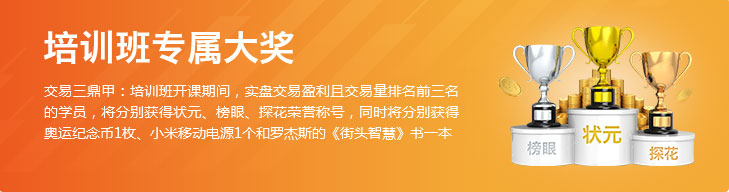
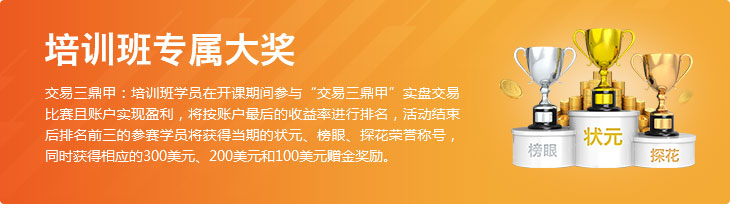
同步培训班详情页样式
git-svn-id: svn://172.30.3.30/pm/pm_chat/trunk@4934 53c53a5b-bfa6-924e-aae2-cbdbf9aa2596

diff --git a/template/pm/theme1/static/css/train.min.css b/template/pm/theme1/static/css/train.min.css
@@ -1,1 +1,1 @@
-.detail_ph .ph_cont .picbox i,.detail_ph .t_list li .arrow,.ligg_st .st i,.train_ad .actrulebtn i{background-image:url(../img/icons.png);background-repeat:no-repeat;background-position:0 0}.train_detail .scrollbox{height:460px}.train_detail .vol{font-size:14px;color:#464852;display:block;text-align:center;position:relative;top:-10px}.train_detail .teacherbox .te_top{border:1px solid #e6eff5;border-left:0;background:#f3f9fd;position:relative;border-radius:0 190px 190px 0;height:180px;box-sizing:border-box;margin-left:90px;padding-left:130px;padding-top:10px;text-align:left}.train_detail .te_top .info-l{width:38%}.train_detail .teacherbox .stateshow{padding-top:5px;width:61%;float:right;text-align:right;padding-right:1%}.train_detail .stateshow .item{width:26%;text-align:center}.train_detail .stateshow b em{font-size:.8em;font-style:normal}.train_detail .teacherbox .taglist{margin:0 0 10px}.train_detail .te_top .himg{width:180px;height:180px;border:1px solid #cfdfeb;box-sizing:border-box;left:-90px;background:#f3f9fd}.ph_tit span i,.te_top .memo span i{display:inline-block;width:3px;vertical-align:top}.train_detail .info1{border-bottom:1px solid #e6eff5;padding-bottom:15px;margin-right:50px}.detailtop{text-align:center}.detailtop .slogan{margin-top:10px;margin-bottom:20px}.detailcont{padding:0 57px;font-size:14px;color:#46484d;line-height:24px}.detailcont .dtit{font-size:15px;font-weight:700;padding-top:9pt}.detailcont p img{padding-top:5px;margin-right:8px}.teacherbox .info1 .info-l{padding-top:5px}.teacherbox .info1 .te_name{font-size:20px;line-height:40px}.te_top .memo{color:#5d5f66;font-size:14px;line-height:20px;padding:10px 10px 10px 0;overflow:hidden;text-overflow:ellipsis;white-space:nowrap}.te_top .memo span{color:#2e3033}.te_top .memo span i{background:#3b96d5;height:14px;margin-top:3px;margin-right:5px}.train_detail .teacherbox .taglist{margin-top:0}.detail_ph .ph_tit{border-top:1px solid #aec7de;margin-top:55px}.ph_tit span{display:inline-block;background:#fff;color:#3b96d5;font-size:1pc;line-height:24px;position:relative;top:-13px;padding-right:10px}.ph_tit span i{height:1pc;background:#3b96d5;margin-top:4px;margin-right:10px}.detail_ph .ph_cont{font-size:14px;line-height:1.5;color:#5d5f66}.detail_ph .ph_cont p{padding-left:10px}.detail_ph .ph_cont p b{color:#e55c62;font-size:1pc}.detail_ph .ph_cont p b.sz{font-size:18px}.ph_cont .imgdiv{padding:8px;border:1px solid #dce0e3;margin:5px 10px;border-radius:4px}.ph_cont .imgdiv img{width:100%;height:auto}.train_detail .applybtn{display:block;width:200px;height:40px;line-height:40px;font-size:18px;color:#fff;background:#3b96d5;font-weight:700;margin:30px auto 40px;text-align:center;border-radius:4px}.train_detail .applybtn:hover{background:#2587cb;text-decoration:none}.train_detail .train_ad{margin-bottom:20px;display:block;background:url(../img/train_ad.jpg) no-repeat;height:14pc}.train_detail .train_ad .actrulebtn{display:inline-block;margin:170px 0 0 380px;color:#ba2e36;font-size:1pc;line-height:1.5}.detail_tab td,.detail_tab th{border-bottom:1px solid #e1e5eb;font-size:14px;color:#5d5f66}.train_ad .actrulebtn i{display:inline-block;width:6px;height:9pt;background-position:-75pt -220px;margin:3px 5px 0 0}.detail_tab td{padding:15px 0}.detail_tab th{padding:15px 0 15px 10px;text-align:left;font-weight:400;vertical-align:top;line-height:30px}.detail_tab .topic{font-size:20px;color:#46484d;font-weight:700}.detail_tab .apply_info{float:right;display:inline-block;vertical-align:top;margin-top:-15px}.detail_tab .apply_info li{display:inline-block;vertical-align:top}.apply_info li b{font-size:18px;display:block;font-family:Arial,'Microsoft YaHei'}.apply_info li.m{color:#e55c62;border-left:1px solid #e1e5eb;border-right:1px solid #e1e5eb;padding:0 28px;margin:0 28px}.detail_ph .t_list li{position:relative;padding-left:28px;line-height:30px}.detail_ph .t_list.w2 li{width:35%;display:inline-block}.detail_ph .t_list li i{position:absolute;display:block;width:1pc;height:1pc;line-height:1pc;font-size:1pc;font-family:'Futura Bk BT',Arial;color:#8b8f99;text-align:center;font-style:normal;left:0;top:50%;margin-top:-9px;border:1px solid #babfcc;border-radius:3px}.detail_ph .t_list li .arrow{display:inline-block;background-position:-110px -220px;width:11px;height:9pt;margin:5px 0 0 20px}.popup_box .pop_tit.t2{font-size:30px}.popup_box .pop_tit.t2 span{width:12%}.train_detail .scrollbox.ligg{height:430px}.t_slogan{text-align:center;position:relative;margin-bottom:20px}.t_slogan span{display:inline-block;padding:0 30px;height:30px;line-height:30px;font-size:1pc;border-radius:30px;border:1px solid #e1e5eb}.t_slogan .arr i{display:block;position:absolute;width:0;height:0;left:50%;top:-11px;border-width:6px;border-color:transparent transparent #e1e5eb;border-style:solid;margin-left:-6px;z-index:2}.ligg_st .st,.ligg_st .st i{display:inline-block;vertical-align:top}.t_slogan .arr i.i2{top:-7px;border-width:4px;border-color:transparent transparent #fff;margin-left:-4px}.ligg_top{padding-top:30px}.ligg_top .rbox{float:right;width:65%}.ligg_top .lbox{float:left;width:32%;background:#f3f9fd;border:1px solid #e6eff5;border-radius:4px}.ligg_top .lbox .himg{border:1px solid #e6eff5;width:180px;height:180px;box-sizing:border-box;margin:30px auto 0;overflow:hidden;border-radius:50%}.ligg_top .bcont{padding:0 20px}.ligg_top .ligg_st{border-bottom:1px solid #e0e8ed;font-size:0;text-align:center;padding:20px 0 15px}.ligg_st .st{width:49.9%;font-size:9pt;color:#a1a9b2;line-height:24px}.ligg_st .st span{color:#e55c62}.ligg_st .st b{font-size:1pc;font-weight:400}.ligg_st .st i{width:23px;height:23px;margin-right:5px}.ligg_st .st i.st1{background-position:0 -190px}.ligg_st .st i.st2{background-position:-140px -75pt}.ligg_zy{font-size:14px;line-height:24px;color:#5d5f66;padding:15px 0}.ligg_zy span{color:#2e3033}.ligg_top .applybtn{width:100%;margin:0 auto 23px}.ligg_intro{font-size:14px;color:#7a7c80;padding-bottom:20px}.ligg_intro b{font-size:20px;color:#46484d;padding-right:20px}.ligg_top .detail_ph .ph_tit{margin-top:35px}.ligg_top .detail_ph .ph_cont p b{font-size:1em}.detail_ph .ph_cont .picbox{border:1px solid #dce0e3;padding:5px;border-radius:4px;margin-top:5px;margin-left:10px}.detail_ph .ph_cont .picbox a{display:block;position:relative}.detail_ph .ph_cont img{width:100%;height:auto}.detail_ph .ph_cont .picbox i{display:block;width:17px;height:17px;position:absolute;bottom:5px;right:5px;background-position:-60px -220px}.ligg .kcname{font-size:20px;color:#46484d;line-height:2}.ligg .kcbg{position:relative}.ligg .kcbgpic{width:286px;height:168px;background:url(../img/ligg_kcbg.jpg) no-repeat;position:absolute;right:-27px;top:20px;z-index:-1}.ligg .apply_info{border:1px solid #d7dde0;font-size:0;text-align:center;margin-top:15px}.ligg .apply_info .inbox{position:relative;display:inline-block;width:35%;vertical-align:top;font-size:14px;color:#5d5f66;line-height:1.6;height:10pc;background:#fff}.ligg .apply_info .inbox.in1{width:25.99%}.ligg .apply_info .inbox.in2{width:39%}.ligg .apply_info .inbox i.arr{position:absolute;width:43px;height:100%;padding:1px 0;background:url(../img/ligg_arr.png) center center no-repeat;top:-1px;right:0}.apply_info .inbox .cont{padding-left:30px;text-align:left;padding-top:15px}.apply_info .inbox p{padding-left:0}.apply_info .inbox p b{color:#5d5f66;display:block;font-size:18px;font-family:Arial}.apply_info .inbox p.red{padding-top:10px}.apply_info .inbox p.red,.apply_info .inbox p.red b{color:#e55c62}.apply_info .inbox p.p2{padding-top:7px}.popup_box.train_rule{margin-top:-300px;height:600px}.popup_box.train_rule .cont{padding:40px 40px 0}.train_rule .rulecont{margin-bottom:30px}.train_rule .scrollbox{height:5in}.train_rule h4{color:#333;font-size:1pc;margin:20px 0 10px}.train_rule li{color:#4c4c4c;font-size:14px;line-height:24px}.train_rule .eg{color:#447baf}.rulecont li b{color:#e55c62}.detail_ph .indent_cont{margin:0 10px}.medaltable{margin-bottom:20px}.medaltable th{font-weight:400;padding:10px 0 20px;color:#5d5f66;font-size:14px}.medaltable th span{display:block;height:14px;border:1px solid #e6e6e6;border-top:0;border-bottom:0}.medaltable td{border-left:1px solid #e6e6e6;border-top:1px solid #e6e6e6;padding:10px 0;text-align:center;vertical-align:middle;color:#333;font-size:14px}.medaltable tr:last-child td{border-bottom:1px solid #e6e6e6}.medaltable tr td:first-child{border-left:0}.medaltable .medal{display:inline-block;width:24px;height:44px;background:url(../img/medal.png) center 0 no-repeat;vertical-align:middle;margin-right:10px}.medaltable .medal.m2{background-position:center -50px}.medaltable .medal.m3{background-position:center -75pt}
+.detail_ph .ph_cont .picbox i,.detail_ph .t_list li .arrow,.ligg_st .st i,.train_ad .actrulebtn i{background-image:url(../img/icons.png);background-repeat:no-repeat;background-position:0 0}.train_detail .scrollbox{height:460px}.train_detail .vol{font-size:14px;color:#464852;display:block;text-align:center;position:relative;top:-10px}.train_detail .teacherbox .te_top{border:1px solid #e6eff5;border-left:0;background:#f3f9fd;position:relative;border-radius:0 190px 190px 0;height:180px;box-sizing:border-box;margin-left:90px;padding-left:130px;padding-top:10px;text-align:left}.train_detail .te_top .info-l{width:38%}.train_detail .teacherbox .stateshow{padding-top:5px;width:61%;float:right;text-align:right;padding-right:1%}.train_detail .stateshow .item{width:26%;text-align:center}.train_detail .stateshow b em{font-size:.8em;font-style:normal}.train_detail .teacherbox .taglist{margin:0 0 10px}.train_detail .te_top .himg{width:180px;height:180px;border:1px solid #cfdfeb;box-sizing:border-box;left:-90px;background:#f3f9fd}.ph_tit span i,.te_top .memo span i{display:inline-block;width:3px;vertical-align:top}.train_detail .info1{border-bottom:1px solid #e6eff5;padding-bottom:15px;margin-right:50px}.detailtop{text-align:center}.detailtop .slogan{margin-top:10px;margin-bottom:20px}.detailcont{padding:0 57px;font-size:14px;color:#46484d;line-height:24px}.detailcont .dtit{font-size:15px;font-weight:700;padding-top:9pt}.detailcont p img{padding-top:5px;margin-right:8px}.teacherbox .info1 .info-l{padding-top:5px}.teacherbox .info1 .te_name{font-size:20px;line-height:40px}.te_top .memo{color:#5d5f66;font-size:14px;line-height:20px;padding:10px 10px 10px 0;overflow:hidden;text-overflow:ellipsis;white-space:nowrap}.te_top .memo span{color:#2e3033}.te_top .memo span i{background:#3b96d5;height:14px;margin-top:3px;margin-right:5px}.train_detail .teacherbox .taglist{margin-top:0}.detail_ph .ph_tit{border-top:1px solid #aec7de;margin-top:55px}.ph_tit span{display:inline-block;background:#fff;color:#3b96d5;font-size:1pc;line-height:24px;position:relative;top:-13px;padding-right:10px}.ph_tit span i{height:1pc;background:#3b96d5;margin-top:4px;margin-right:10px}.detail_ph .ph_cont{font-size:14px;line-height:1.5;color:#5d5f66}.detail_ph .ph_cont p{padding-left:10px}.detail_ph .ph_cont p b{color:#e55c62;font-size:1pc}.detail_ph .ph_cont p b.sz{font-size:18px}.ph_cont .imgdiv{padding:8px;border:1px solid #dce0e3;margin:5px 10px;border-radius:4px}.ph_cont .imgdiv img{width:100%;height:auto}.train_detail .applybtn{display:block;width:200px;height:40px;line-height:40px;font-size:18px;color:#fff;background:#3b96d5;font-weight:700;margin:30px auto 40px;text-align:center;border-radius:4px}.train_detail .applybtn:hover{background:#2587cb;text-decoration:none}.train_detail .train_ad{margin-bottom:20px;display:block;background:url(../img/train_ad.jpg) center 0 no-repeat;height:204px}.train_detail .train_ad .actrulebtn{display:inline-block;margin:38px 0 0 330px;color:#ba2e36;font-size:1pc;line-height:1.5}.detail_tab td,.detail_tab th{border-bottom:1px solid #e1e5eb;font-size:14px;color:#5d5f66}.train_ad .actrulebtn i{display:inline-block;width:6px;height:9pt;background-position:-75pt -220px;margin:3px 5px 0 0}.detail_tab td{padding:15px 0}.detail_tab th{padding:15px 0 15px 10px;text-align:left;font-weight:400;vertical-align:top;line-height:30px}.detail_tab .topic{font-size:20px;color:#46484d;font-weight:700}.detail_tab .apply_info{float:right;display:inline-block;vertical-align:top;margin-top:-15px}.detail_tab .apply_info li{display:inline-block;vertical-align:top}.apply_info li b{font-size:18px;display:block;font-family:Arial,'Microsoft YaHei'}.apply_info li.m{color:#e55c62;border-left:1px solid #e1e5eb;border-right:1px solid #e1e5eb;padding:0 28px;margin:0 28px}.detail_ph .t_list li{position:relative;padding-left:28px;line-height:30px}.detail_ph .t_list.w2 li{width:35%;display:inline-block}.detail_ph .t_list li i{position:absolute;display:block;width:1pc;height:1pc;line-height:1pc;font-size:1pc;font-family:'Futura Bk BT',Arial;color:#8b8f99;text-align:center;font-style:normal;left:0;top:50%;margin-top:-9px;border:1px solid #babfcc;border-radius:3px}.detail_ph .t_list li .arrow{display:inline-block;background-position:-110px -220px;width:11px;height:9pt;margin:5px 0 0 20px}.popup_box .pop_tit.t2{font-size:30px}.popup_box .pop_tit.t2 span{width:12%}.train_detail .scrollbox.ligg{height:430px}.t_slogan{text-align:center;position:relative;margin-bottom:20px}.t_slogan span{display:inline-block;padding:0 30px;height:30px;line-height:30px;font-size:1pc;border-radius:30px;border:1px solid #e1e5eb}.t_slogan .arr i{display:block;position:absolute;width:0;height:0;left:50%;top:-11px;border-width:6px;border-color:transparent transparent #e1e5eb;border-style:solid;margin-left:-6px;z-index:2}.ligg_st .st,.ligg_st .st i{display:inline-block;vertical-align:top}.t_slogan .arr i.i2{top:-7px;border-width:4px;border-color:transparent transparent #fff;margin-left:-4px}.ligg_top{padding-top:30px}.ligg_top .rbox{float:right;width:65%}.ligg_top .lbox{float:left;width:32%;background:#f3f9fd;border:1px solid #e6eff5;border-radius:4px}.ligg_top .lbox .himg{border:1px solid #e6eff5;width:180px;height:180px;box-sizing:border-box;margin:30px auto 0;overflow:hidden;border-radius:50%}.ligg_top .bcont{padding:0 20px}.ligg_top .ligg_st{border-bottom:1px solid #e0e8ed;font-size:0;text-align:center;padding:20px 0 15px}.ligg_st .st{width:49.9%;font-size:9pt;color:#a1a9b2;line-height:24px}.ligg_st .st span{color:#e55c62}.ligg_st .st b{font-size:1pc;font-weight:400}.ligg_st .st i{width:23px;height:23px;margin-right:5px}.ligg_st .st i.st1{background-position:0 -190px}.ligg_st .st i.st2{background-position:-140px -75pt}.ligg_zy{font-size:14px;line-height:24px;color:#5d5f66;padding:15px 0}.ligg_zy span{color:#2e3033}.ligg_top .applybtn{width:100%;margin:0 auto 23px}.ligg_intro{font-size:14px;color:#7a7c80;padding-bottom:20px}.ligg_intro b{font-size:20px;color:#46484d;padding-right:20px}.ligg_top .detail_ph .ph_tit{margin-top:35px}.ligg_top .detail_ph .ph_cont p b{font-size:1em}.detail_ph .ph_cont .picbox{border:1px solid #dce0e3;padding:5px;border-radius:4px;margin-top:5px;margin-left:10px}.detail_ph .ph_cont .picbox a{display:block;position:relative}.detail_ph .ph_cont img{width:100%;height:auto}.detail_ph .ph_cont .picbox i{display:block;width:17px;height:17px;position:absolute;bottom:5px;right:5px;background-position:-60px -220px}.ligg .kcname{font-size:20px;color:#46484d;line-height:2}.ligg .kcbg{position:relative}.ligg .kcbgpic{width:286px;height:168px;background:url(../img/ligg_kcbg.jpg) no-repeat;position:absolute;right:-27px;top:20px;z-index:-1}.ligg .apply_info{border:1px solid #d7dde0;font-size:0;text-align:center;margin-top:15px}.ligg .apply_info .inbox{position:relative;display:inline-block;width:36%;vertical-align:top;font-size:14px;color:#5d5f66;line-height:1.6;height:10pc;background:#fff}.ligg .apply_info .inbox.in1{width:25.99%}.ligg .apply_info .inbox.in2{width:38%}.ligg .apply_info .inbox i.arr{position:absolute;width:43px;height:100%;padding:1px 0;background:url(../img/ligg_arr.png) center center no-repeat;top:-1px;right:0}.apply_info .inbox .cont{padding-left:30px;text-align:left;padding-top:15px}.apply_info .inbox p{padding-left:0}.apply_info .inbox p b{color:#5d5f66;display:block;font-size:18px;font-family:Arial}.apply_info .inbox p.red{padding-top:10px}.apply_info .inbox p.red,.apply_info .inbox p.red b{color:#e55c62}.apply_info .inbox p.p2{padding-top:7px}.popup_box.train_rule{margin-top:-300px;height:600px}.popup_box.train_rule .cont{padding:40px 40px 0}.train_rule .rulecont{margin-bottom:30px}.train_rule .scrollbox{height:5in}.train_rule h4{color:#333;font-size:1pc;margin:20px 0 10px}.train_rule li{color:#4c4c4c;font-size:14px;line-height:24px}.train_rule .eg{color:#447baf}.rulecont li b{color:#e55c62}.detail_ph .indent_cont{margin:0 10px}.medaltable{margin-bottom:20px}.medaltable th{font-weight:400;padding:10px 0 20px;color:#5d5f66;font-size:14px}.medaltable th span{display:block;height:14px;border:1px solid #e6e6e6;border-top:0;border-bottom:0}.medaltable td{border-left:1px solid #e6e6e6;border-top:1px solid #e6e6e6;padding:10px 0;text-align:center;vertical-align:middle;color:#333;font-size:14px}.medaltable tr:last-child td{border-bottom:1px solid #e6e6e6}.medaltable tr td:first-child{border-left:0}.medaltable .medal{display:inline-block;width:24px;height:44px;background:url(../img/medal.png) center 0 no-repeat;vertical-align:middle;margin-right:10px}.medaltable .medal.m2{background-position:center -50px}.medaltable .medal.m3{background-position:center -75pt}

diff --git a/template/pm/theme1/static/css/train.css b/template/pm/theme1/static/css/train.css
@@ -38,8 +38,8 @@
 .ph_cont .imgdiv img{ width: 100%; height: auto; }
 .train_detail .applybtn{ display: block; width: 200px; height: 40px; line-height: 40px; font-size: 18px; color: #fff; background: #3b96d5; font-weight: bold; margin:30px auto 40px; text-align: center; border-radius: 4px }
 .train_detail .applybtn:hover{ background: #2587cb;text-decoration: none; }
-.train_detail .train_ad { margin-bottom: 20px; display: block; background: url(../img/train_ad.jpg) 0 0 no-repeat; height: 224px;}
-.train_detail .train_ad .actrulebtn{display: inline-block;*display: inline;*zoom: 1; margin: 170px 0 0 380px; color: #ba2e36; font-size: 16px; line-height: 1.5; }
+.train_detail .train_ad { margin-bottom: 20px; display: block; background: url(../img/train_ad.jpg) center 0 no-repeat; height: 204px;}
+.train_detail .train_ad .actrulebtn{display: inline-block;*display: inline;*zoom: 1; margin: 38px 0 0 330px; color: #ba2e36; font-size: 16px; line-height: 1.5; }
 .train_ad .actrulebtn i{ display: inline-block;*display: inline;*zoom: 1; width: 6px; height: 12px; background-position: -100px -220px; margin: 3px 5px 0 0 }
 .detail_tab td{ border-bottom: 1px solid #e1e5eb; padding: 15px 0; font-size: 14px; color: #5d5f66  }
 .detail_tab th{padding: 15px 0; padding-left: 10px; text-align: left; font-weight: normal; border-bottom: 1px solid #e1e5eb; font-size: 14px; color: #5d5f66  ; vertical-align: top; line-height: 30px;}
@@ -88,9 +88,9 @@
 .ligg .kcbg{ position: relative; }
 .ligg .kcbgpic{ width: 286px; height: 168px; background: url(../img/ligg_kcbg.jpg) 0 0 no-repeat; position: absolute; right: -27px; top: 20px; z-index: -1; }
 .ligg .apply_info{ border: 1px solid #d7dde0; font-size: 0; text-align: center; margin-top: 15px; }
-.ligg .apply_info .inbox{ position: relative; display: inline-block;*display: inline;*zoom: 1; width: 35%; vertical-align: top; font-size: 14px; color: #5d5f66; line-height: 1.6; height: 160px; background: #fff }
+.ligg .apply_info .inbox{ position: relative; display: inline-block;*display: inline;*zoom: 1; width: 36%; vertical-align: top; font-size: 14px; color: #5d5f66; line-height: 1.6; height: 160px; background: #fff }
 .ligg .apply_info .inbox.in1{ width: 25.99%; }
-.ligg .apply_info .inbox.in2{ width: 39%; }
+.ligg .apply_info .inbox.in2{ width: 38%; }
 .ligg .apply_info .inbox i.arr{ position: absolute; width: 43px; height: 100%; padding:1px 0; background: url(../img/ligg_arr.png) center center no-repeat; top: -1px; right: 0; }
 .apply_info .inbox .cont{ padding-left: 30px; text-align: left; padding-top: 15px; }
 .apply_info .inbox p{ padding-left: 0; }
